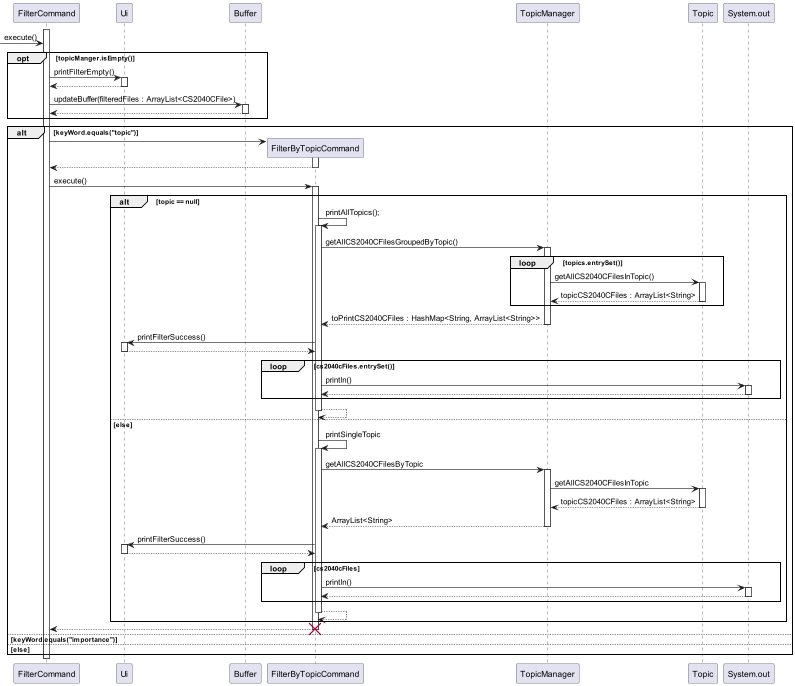
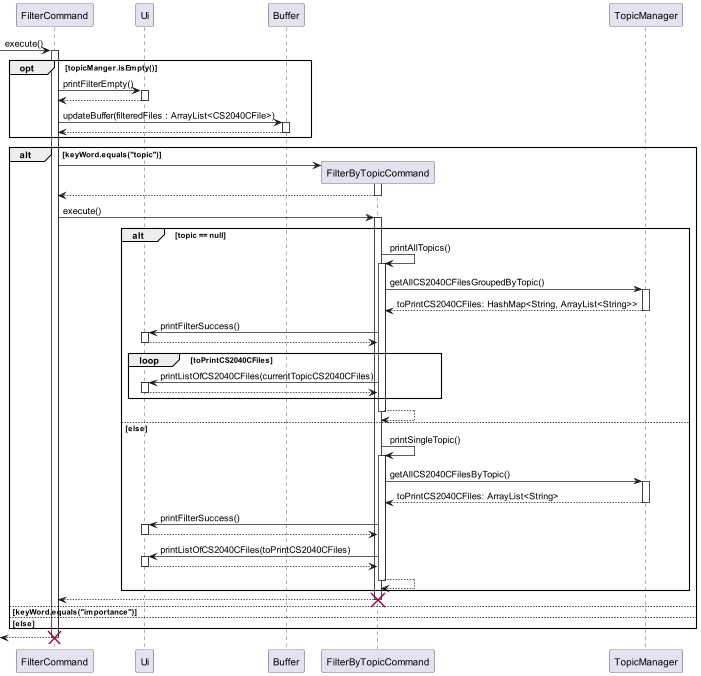
Update FilterCommand sequence diagram to make it concise

diff --git a/src/main/java/seedu/clialgo/command/FilterByTopicCommand.java b/src/main/java/seedu/clialgo/command/FilterByTopicCommand.java
@@ -34,12 +34,8 @@ public class FilterByTopicCommand extends FilterCommand {
         for (Map.Entry<String, ArrayList<String>> entry : cs2040cFiles.entrySet()) {
             ArrayList<String> currentTopicCS2040CFiles = entry.getValue();
             String topicName = entry.getKey();
-            int serialNumber = 1;
             System.out.println("[" + topicName + "]");
-            for (String cs2040cFile : currentTopicCS2040CFiles) {
-                System.out.println(serialNumber + ". " + cs2040cFile);
-                serialNumber++;
-            }
+            ui.printListOfCS2040CFiles(currentTopicCS2040CFiles);
         }
         ui.printDivider();
     }
@@ -51,14 +47,10 @@ public class FilterByTopicCommand extends FilterCommand {
      * @param ui The <code>Ui</code> object which handles outputs to the user.
      */
     private void printSingleTopic(TopicManager topicManager, Ui ui) {
-        ArrayList<String> cs2040cFiles = topicManager.getCS2040CFilesByTopicToPrint(this.topic);
+        ArrayList<String> toPrintCS2040CFiles = topicManager.getCS2040CFilesByTopicToPrint(this.topic);
         ui.printFilterSuccess();
-        int serialNumber = 1;
         System.out.println("[" + this.topic + "]");
-        for (String cs2040cFile : cs2040cFiles) {
-            System.out.println(serialNumber + ". " + cs2040cFile);
-            serialNumber++;
-        }
+        ui.printListOfCS2040CFiles(toPrintCS2040CFiles);
         ui.printDivider();
     }
 

diff --git a/src/main/java/seedu/clialgo/command/ListCommand.java b/src/main/java/seedu/clialgo/command/ListCommand.java
@@ -26,6 +26,7 @@ public class ListCommand extends Command {
         ui.printListSuccess();
         ArrayList<String> printedCS2040CFiles = topicManager.getAllCS2040CFiles();
         ui.printListOfCS2040CFiles(printedCS2040CFiles);
+        ui.printDivider();
     }
 
     @Override

diff --git a/src/main/java/seedu/clialgo/Ui.java b/src/main/java/seedu/clialgo/Ui.java
@@ -449,7 +449,6 @@ public class Ui {
             System.out.println(serialNumber + ". " + cs2040cFile);
             serialNumber++;
         }
-        printDivider();
     }
     //@@author
 }
